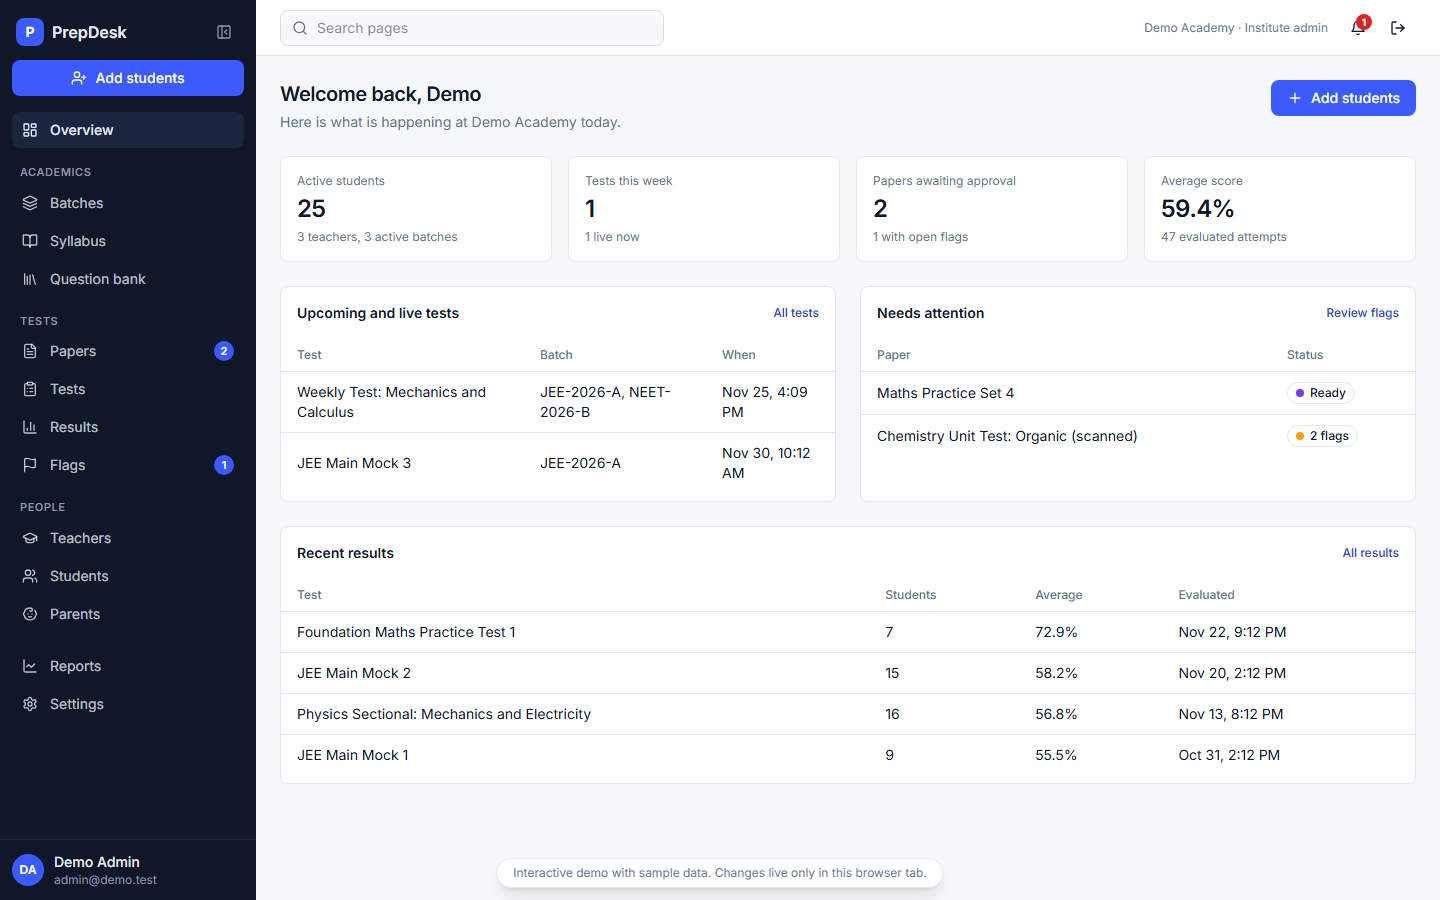
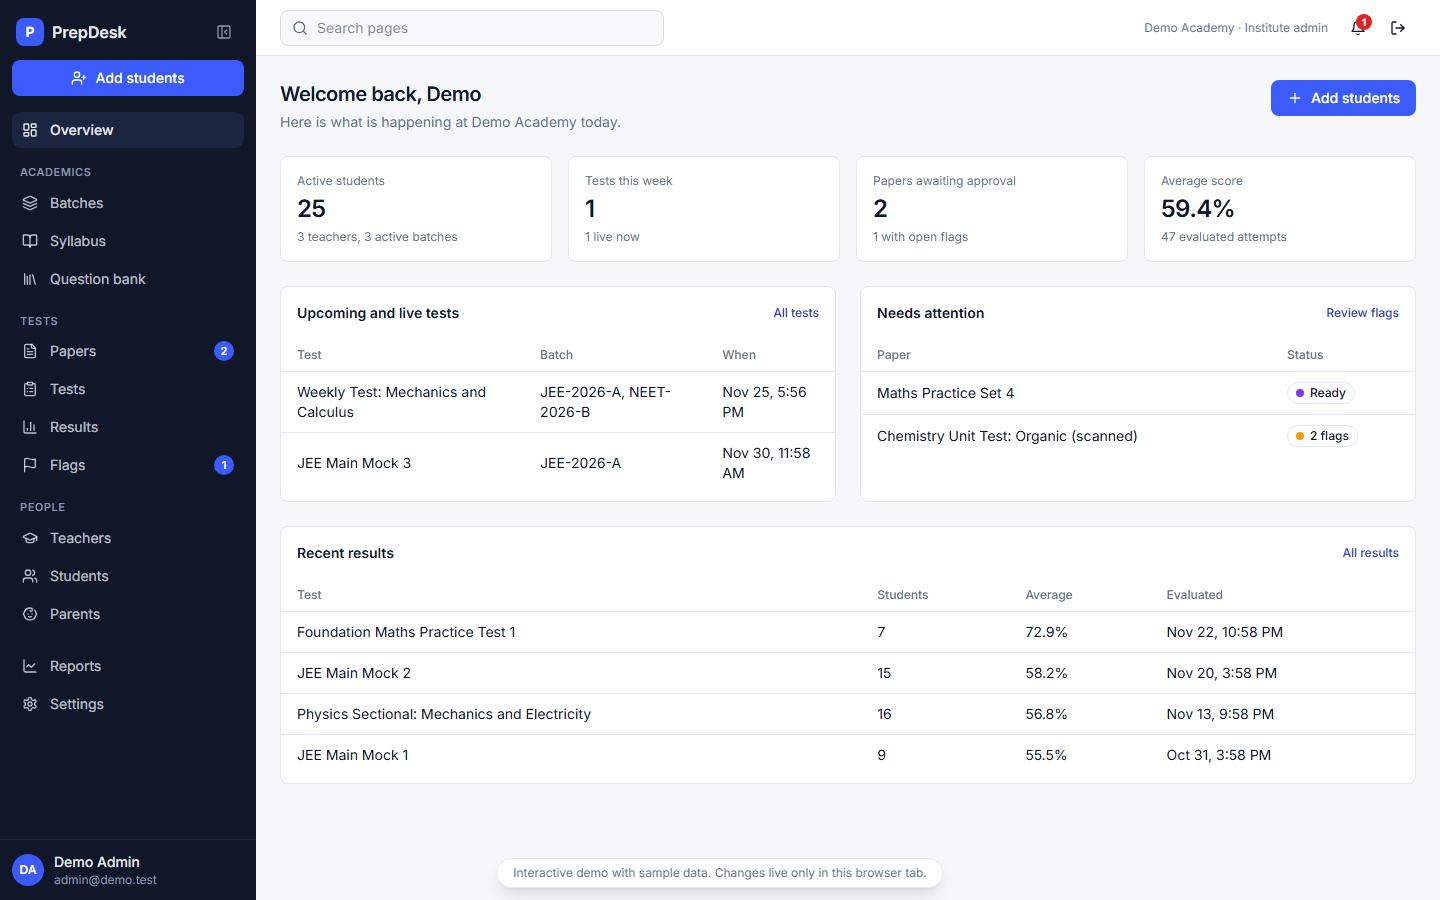
Vercel config, disable login submit until hydrated
Claude-Session: https://claude.ai/code/session_015ct4EdVyN4CwR3ydL5LfWT

diff --git a/apps/web/src/features/auth/auth-form.tsx b/apps/web/src/features/auth/auth-form.tsx
@@ -21,6 +21,9 @@ export function AuthForm({ mode }: { mode: "login" | "signup" }) {
   const [loading, setLoading] = React.useState(false);
   const isSignup = mode === "signup";
   const [registered, setRegistered] = React.useState<string | null>(null);
+  // Until hydration finishes the form would submit natively (a full page reload), so keep the buttons disabled.
+  const [ready, setReady] = React.useState(false);
+  React.useEffect(() => setReady(true), []);
 
   async function onSubmit(e: React.FormEvent<HTMLFormElement>) {
     e.preventDefault();
@@ -142,7 +145,7 @@ export function AuthForm({ mode }: { mode: "login" | "signup" }) {
                   {error}
                 </p>
               )}
-              <Button type="submit" className="w-full" disabled={loading}>
+              <Button type="submit" className="w-full" disabled={loading || !ready}>
                 {loading ? "Please wait..." : isSignup ? "Sign up" : "Log in"}
               </Button>
             </form>
@@ -157,7 +160,7 @@ export function AuthForm({ mode }: { mode: "login" | "signup" }) {
                   <button
                     key={u.email}
                     type="button"
-                    disabled={loading}
+                    disabled={loading || !ready}
                     onClick={() => quickLogin(u.email, DEMO_PASSWORD)}
                     className="rounded-lg border border-border bg-background px-3 py-2 text-left transition hover:border-primary hover:bg-accent disabled:opacity-50"
                   >
